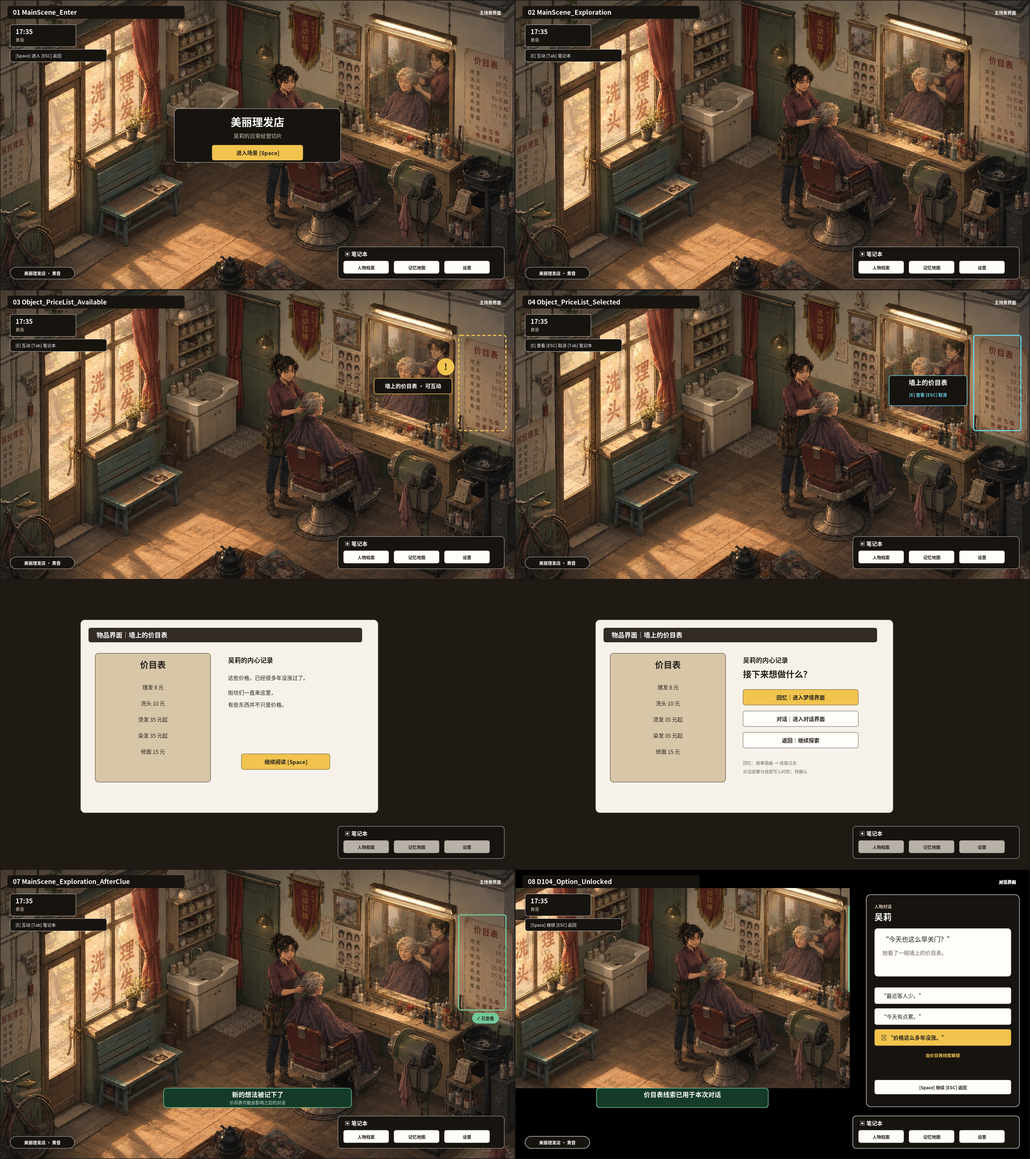
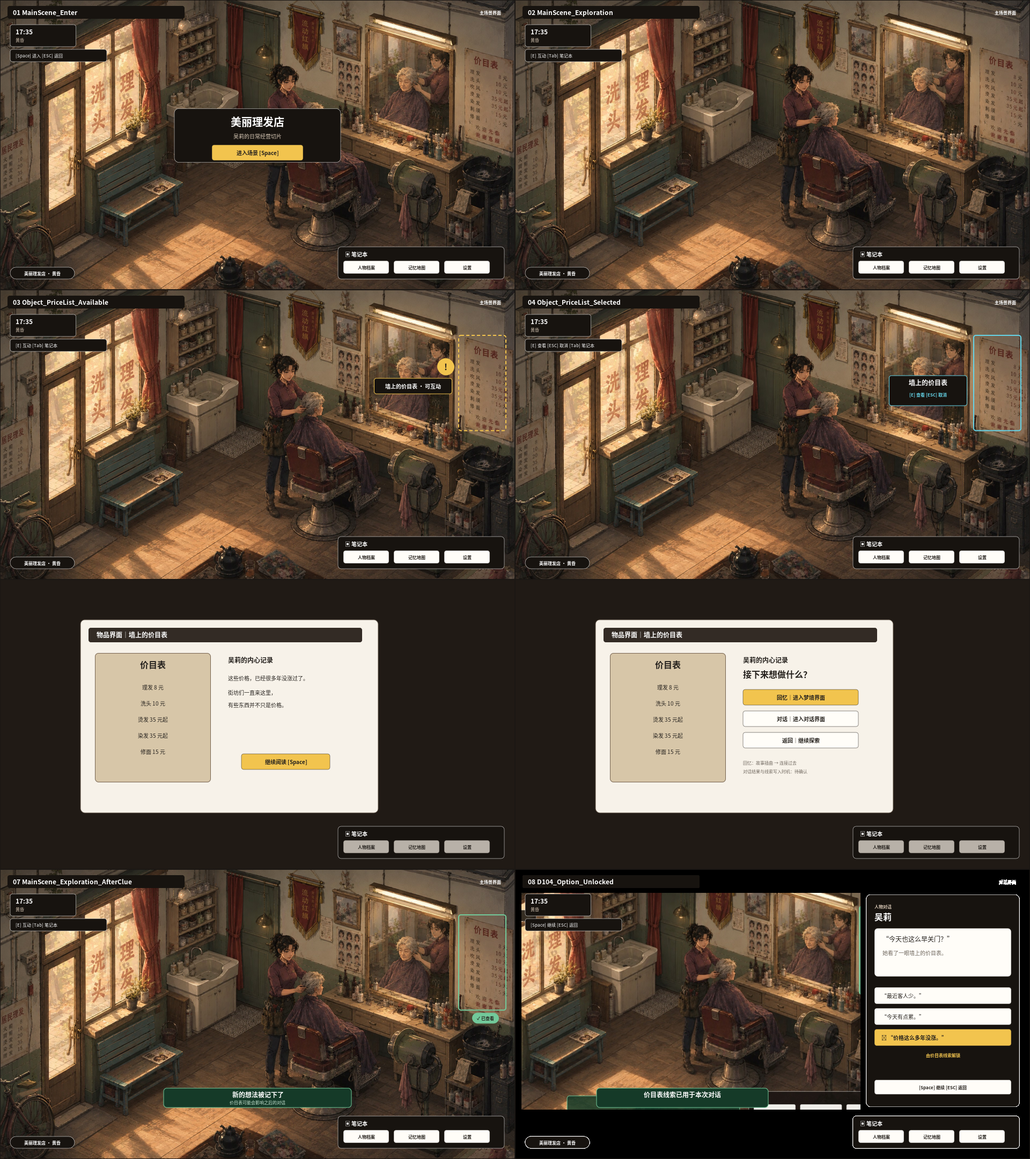
同步确认后的 08 场景反馈布局

diff --git a/docs/UI/main-scene/v0.7/global-rules.md b/docs/UI/main-scene/v0.7/global-rules.md
@@ -57,19 +57,19 @@
 
 ### 4.1 Scene Feedback Layout Rules
 
-| 状态 | X | Y | W | H | 对齐基准 |
-|---|---:|---:|---:|---:|---|
-| 07 自由探索 / After Clue | 610 | 816 | 700 | 72 | 完整画布中心 |
-| 08 对话模式 | 304 | 816 | 640 | 72 | 左侧 `Scene Viewport` 中心 |
+| 状态 | Scene Viewport | Feedback X | Feedback Y | Feedback W | Feedback H | 对齐基准 |
+|---|---|---:|---:|---:|---:|---|
+| 07 自由探索 / After Clue | 全画布 | 610 | 816 | 700 | 72 | 完整画布中心 |
+| 08 对话模式 | `X24 / Y88 / W1264 / H808` | 304 | 816 | 640 | 72 | 左侧 `Scene Viewport` 中心 |
 
 约束规则：
 
-- 对话模式下，`Scene Viewport` 的可见底边固定为 `Y=816`；Feedback 从该边界开始，不再覆盖场景人物。
-- Feedback 底边不得低于 `Y=888`。
-- `Global Navigation` 顶边为 `Y=920`，两者至少保留 `32px` 垂直净空。
-- 无侧边面板时以完整画布中心对齐；打开对话面板时改以左侧 `Scene Viewport` 中心对齐。
+- 对话模式采用用户手动调整后的场景尺寸：`Scene Viewport` 左上角为 `X=24 / Y=88`，宽高为 `1264 × 808px`，可见底边为 `Y=896`。
+- 08 Feedback 叠加于场景底部，底边为 `Y=888`，与 `Scene Viewport` 底边保留 `8px` 内边距。
+- `Global Navigation` 顶边为 `Y=920`，Feedback 与导航之间保留 `32px` 垂直净空。
+- 无侧边面板时以完整画布中心对齐；打开对话面板时以左侧 `Scene Viewport` 为布局基准。
 - 禁止始终使用 1920px 画布中心、手动拉伸 Feedback，或覆盖人物面部、对话选项及全局导航。
-- 普通场景最大宽度为 `700px`；对话场景最大宽度为 `640px`。
+- 普通场景最大宽度为 `700px`；对话场景固定宽度为 `640px`。
 
 ## 5. 临时状态色
 

diff --git a/docs/UI/main-scene/v0.7.md b/docs/UI/main-scene/v0.7.md
@@ -78,7 +78,7 @@
 - 黄色用于可交互／主要操作，青色用于当前聚焦，绿色用于已查看／已理解。
 - “新认知”反馈位于画面下方中央，保持轻量、内心化，不采用写实证物风格。
 - 07 的 Scene Feedback 使用 `X610 / Y816 / W700 / H72`，以完整画布中心对齐；与右下角 Global Navigation 保持至少 `32px` 净空。
-- 08 的 Scene Feedback 使用 `X304 / Y816 / W640 / H72`，以左侧 Scene Viewport 中心对齐；对话状态 Scene Viewport 的可见底边固定为 `Y816`，反馈条不覆盖人物或延伸至右侧对话面板。
+- 08 的 `Scene Viewport` 按用户手动调整结果固定为 `X24 / Y88 / W1264 / H808`；Scene Feedback 使用 `X304 / Y816 / W640 / H72`，叠加于场景底部并保留 `8px` 内边距。Feedback 底边为 `Y888`，与 `Y920` 的 Global Navigation 保持 `32px` 净空，且不延伸至右侧对话面板。
 
 ### 6.1 08 正式图层树
 

diff --git a/changelog.md b/changelog.md
@@ -16,7 +16,7 @@
 - 将 08 拆分为独立 Scene Viewport、Persistent HUD、Scene Feedback、Dialogue Panel 和 Global Navigation
 - 保留 08 既定人物 Camera Framing，使场景裁切仅作用于 Scene Viewport
 - 新增 Scene Feedback Layout Rules：07 按完整画布居中，08 按左侧 Scene Viewport 居中，并统一 32px 底部净空
-- 将 08 Scene Viewport 可见底边收至 `Y=816`，为反馈条建立独立信息带
+- 将 08 Scene Viewport 按手动调整结果更新为 `X24 / Y88 / W1264 / H808`，反馈条叠加于场景底部并保留 8px 内边距
 - 更新八状态总览图、v0.7 设计说明、修改清单和 README 索引
 
 ### 修复
